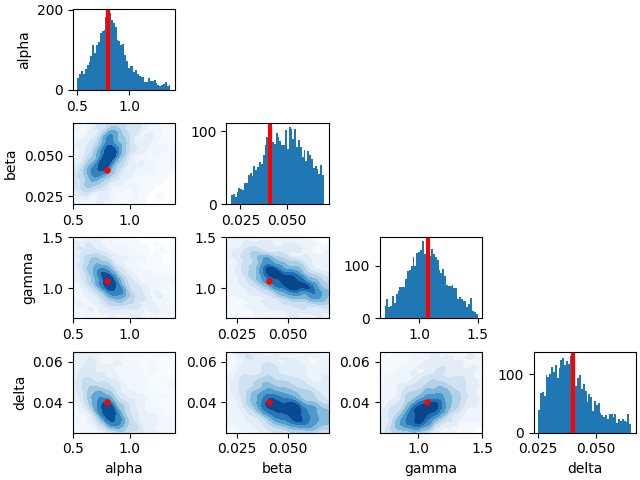
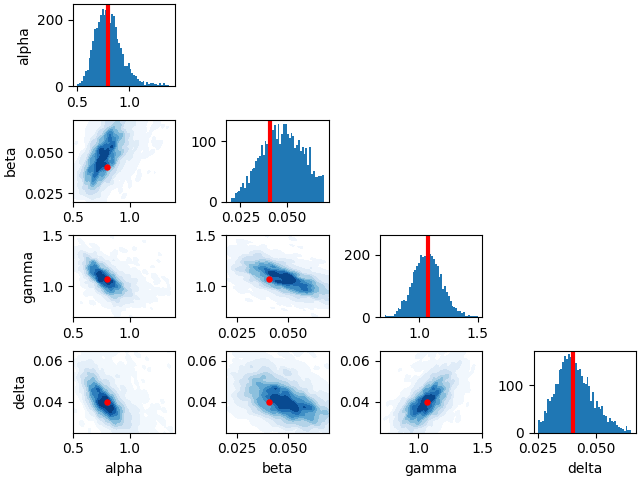
generic commit

diff --git a/scripts/transport/kvae_flow.py b/scripts/transport/kvae_flow.py
@@ -726,7 +726,7 @@ def vl_exp(N=10000, n_iter=49, Yd=18, normal=True, exp_name='kvl_exp', n_transpo
 
 
 def run():
-    vl_exp(n_iter=49, N = 3000,  batch_size=3000, n_transports=150, exp_name='kvl_exp_real4',reg_lambda= 3e-5)
+    vl_exp(n_iter=24, N = 3000,  batch_size=3000, n_transports=300, exp_name='kvl_exp_real4',reg_lambda= 3e-5)
     #@ref_gen = sample_normal
     #N = 2000
     #batch_size = 2000
